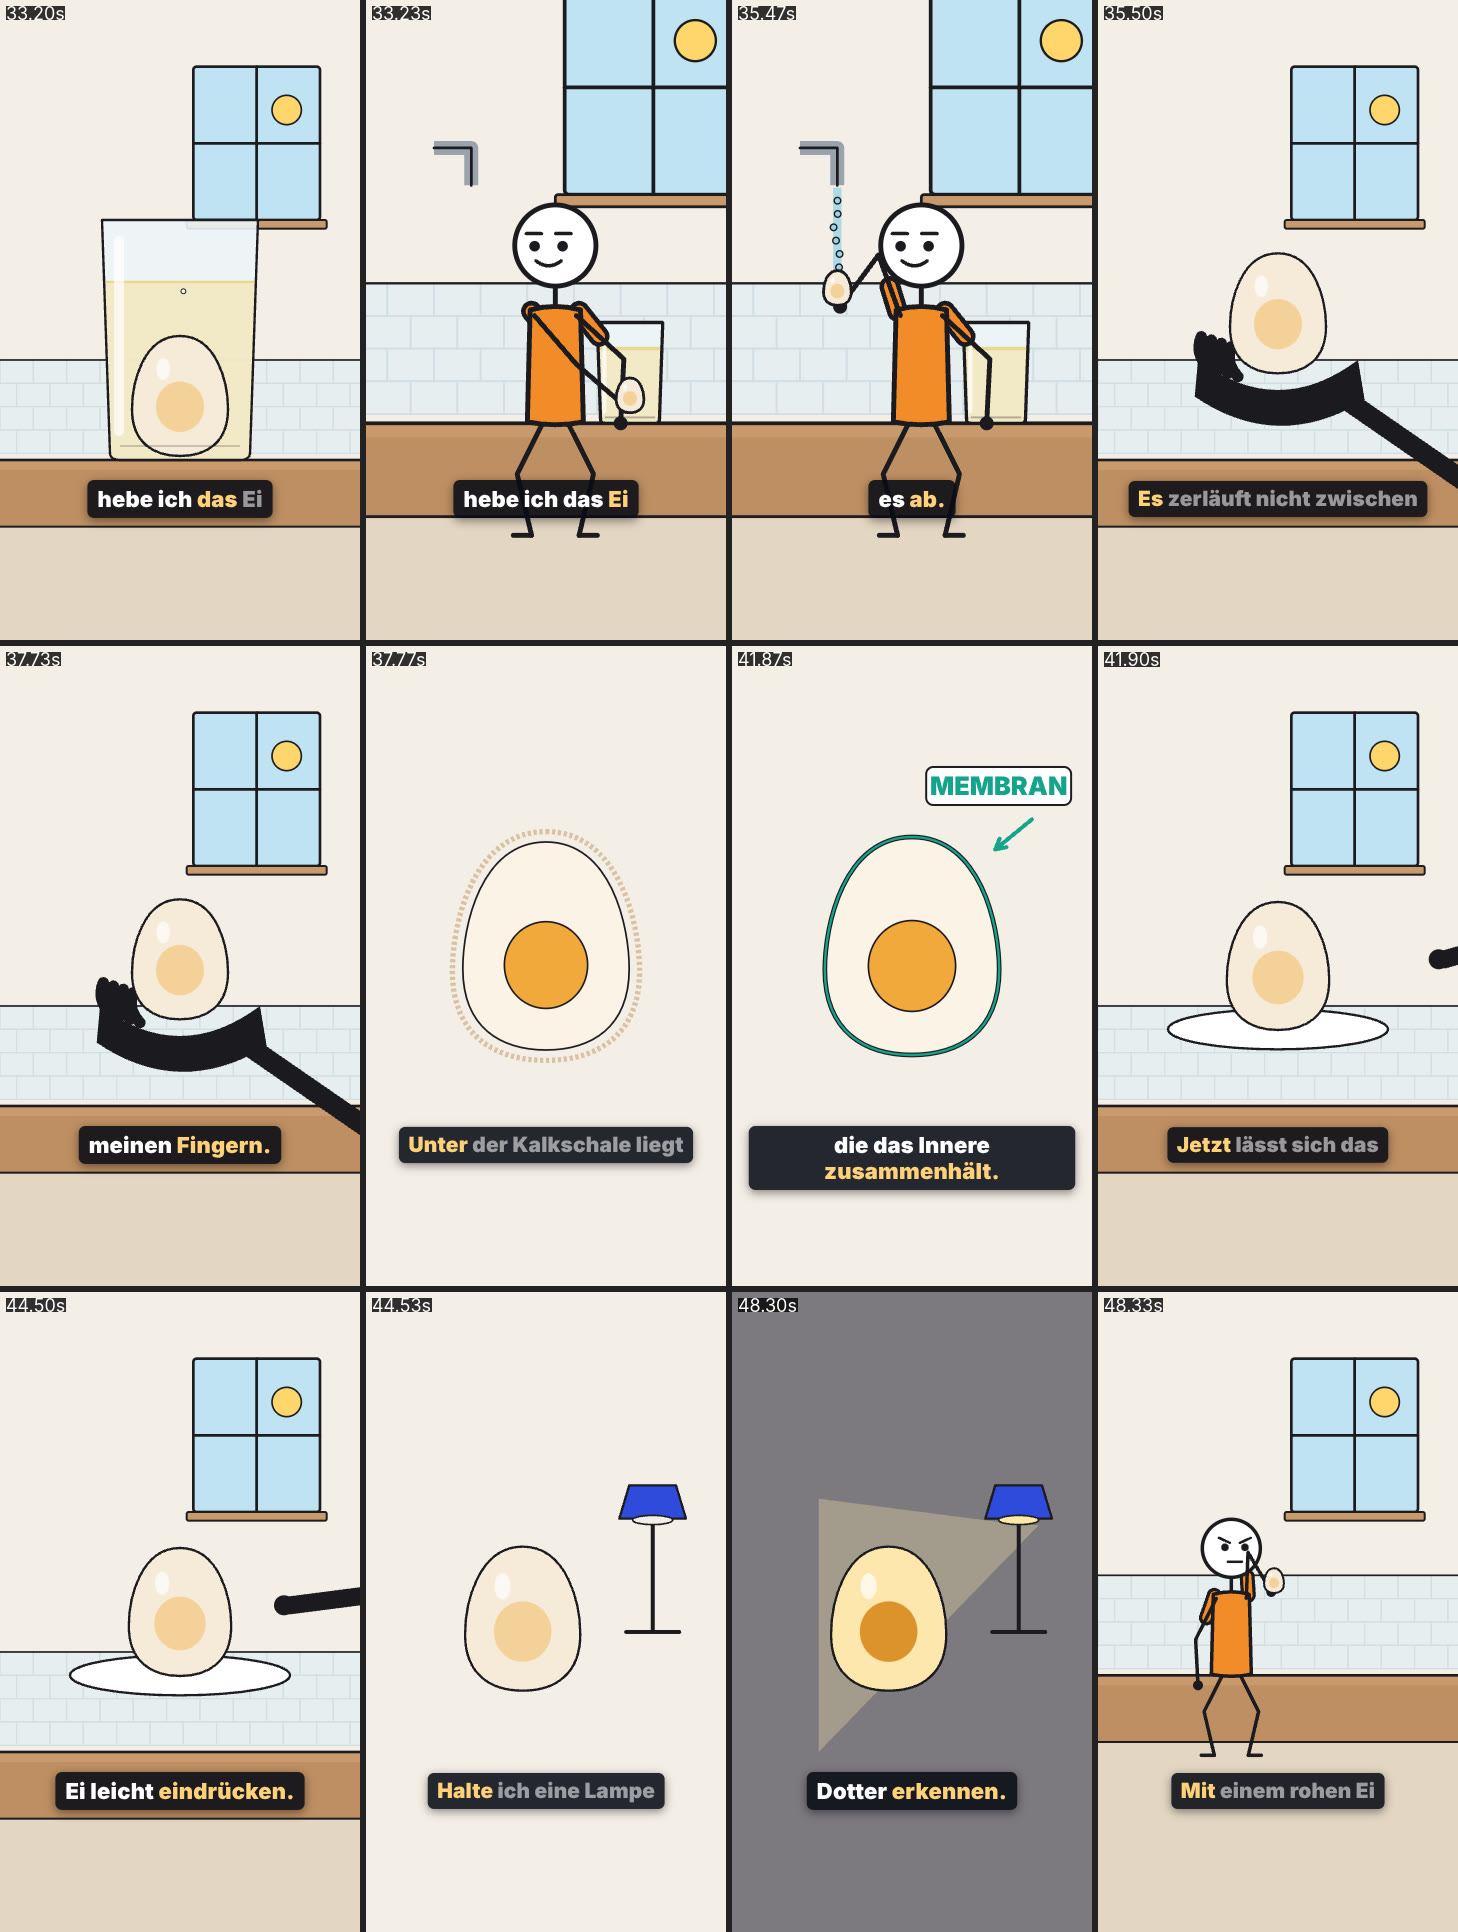
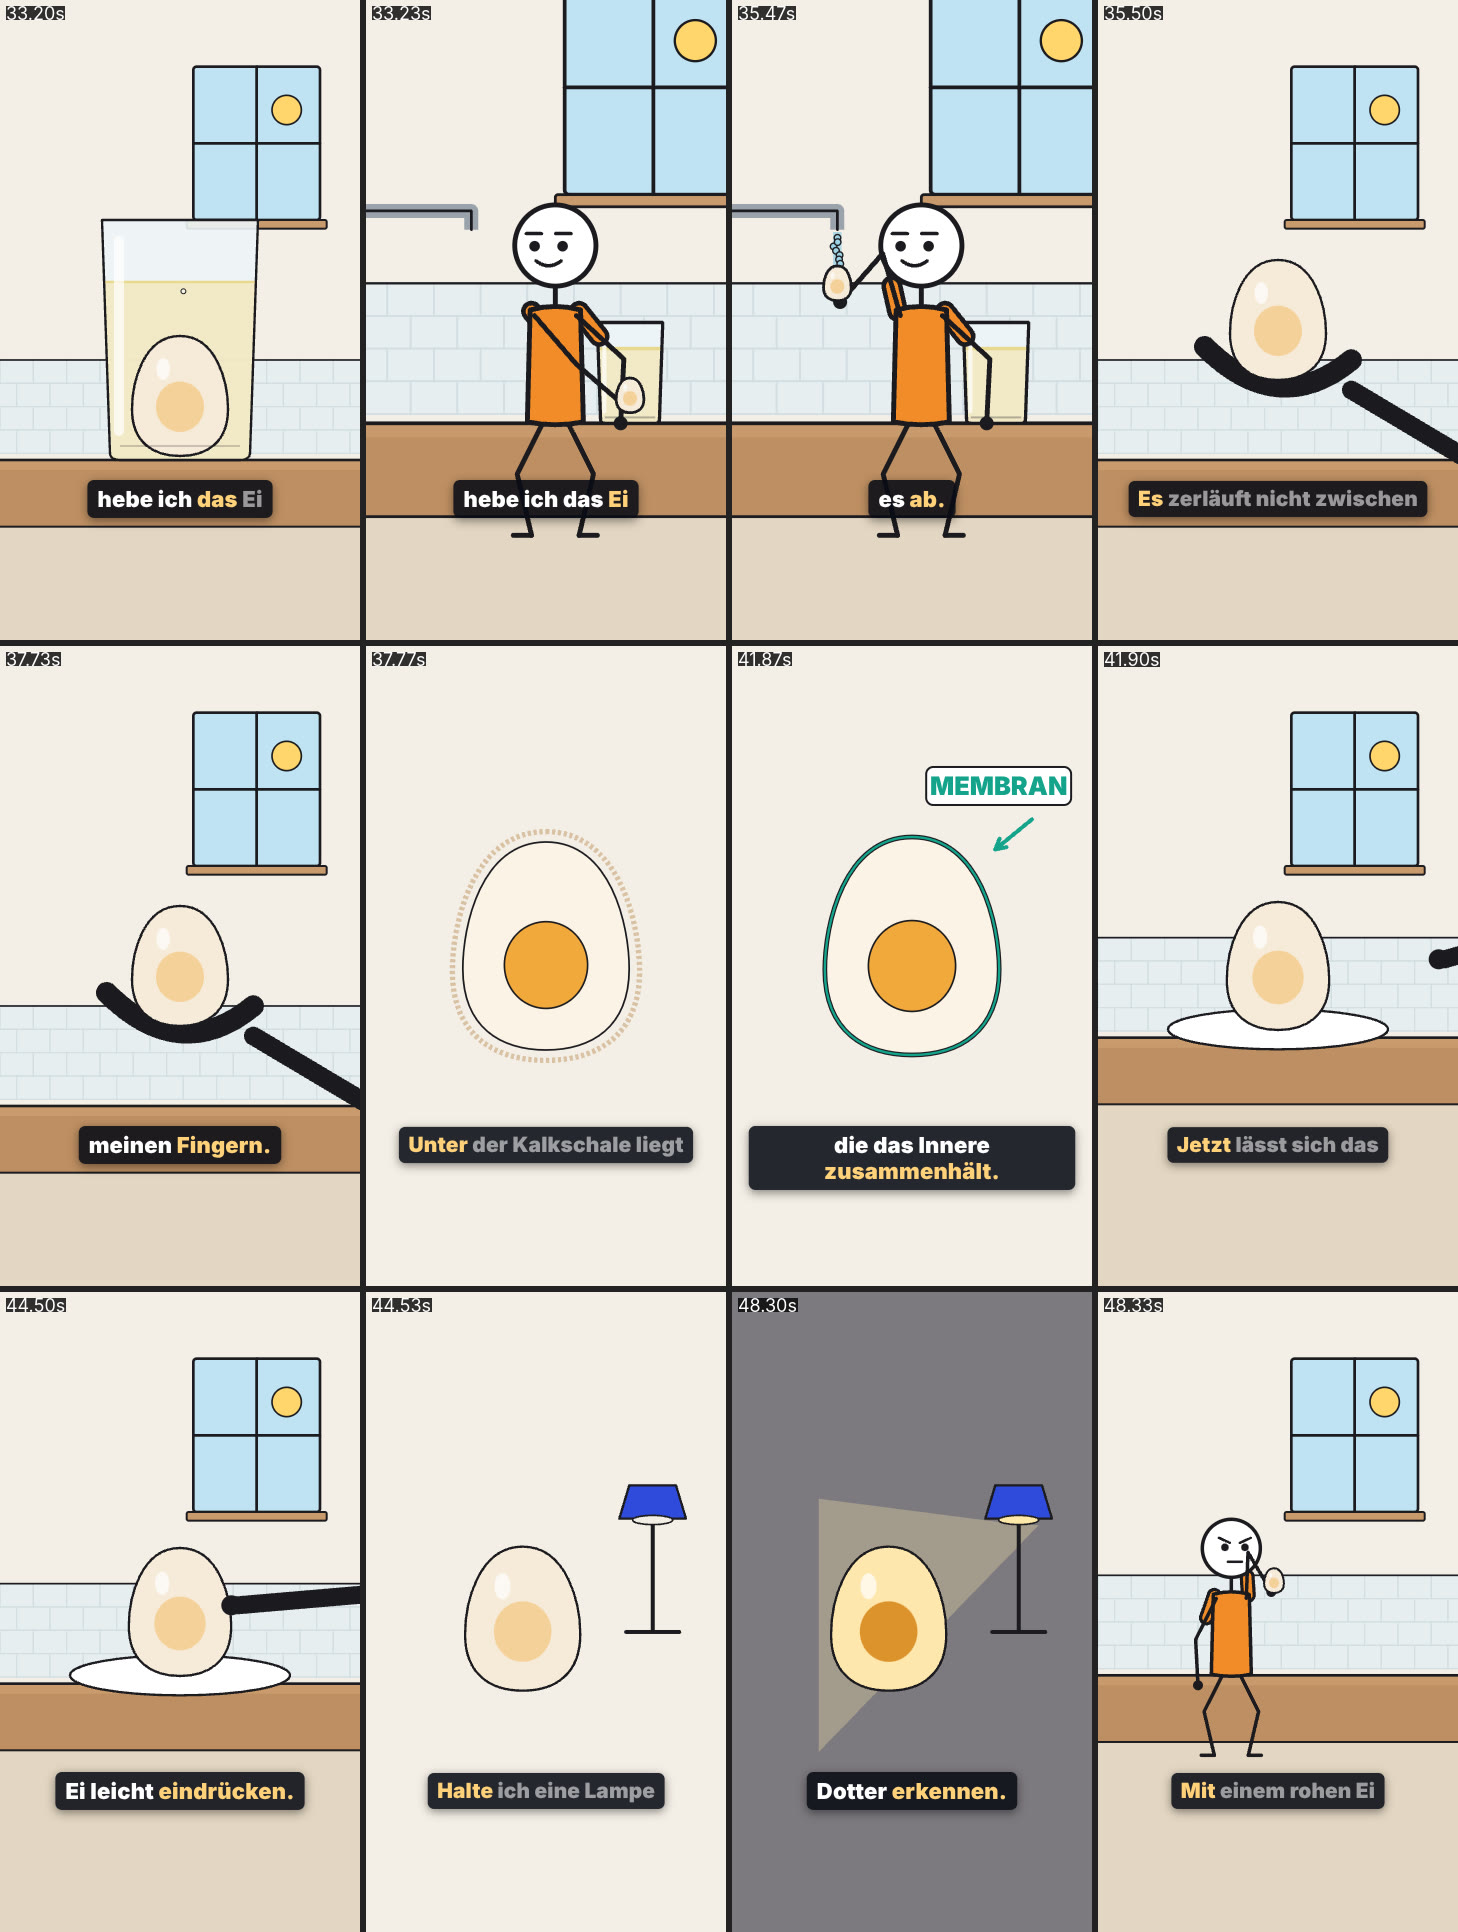
[v68] scene design WIP: round 2 fixes (Claude Code nightly)
Claude-Session: https://claude.ai/code/session_01BnQDwqPkW2v2Hyd5tMGfU9

diff --git a/src/videos/v68/shots/014.js b/src/videos/v68/shots/014.js
@@ -3,12 +3,12 @@ import { K, OL, f1, stick, cam, prog, eio, lerp, hash } from './lib.js';
 import { kitchen, glass, egg, C, TY, FY, FS } from './sets.js';
 export default function renderShot(t) {
   const lift = eio(prog(t, 33.3, 33.95)), mv = eio(prog(t, 34.0, 34.5));
-  const ex = lerp(720, 380, mv), ey = lerp(TY - 60, 840, lift) + mv * 10;
-  const tap = `<rect x="-60" y="660" width="90" height="70" fill="#9AA3AB" ${OL(6)}/><path d="M 30 695 H 380 V 735" fill="none" stroke="#9AA3AB" stroke-width="30" stroke-linejoin="round"/><path d="M 30 695 H 380 V 735" fill="none" ${OL(6)}/>`;
+  const ex = lerp(720, 880, mv), ey = lerp(TY - 60, 840, lift) + mv * 10;
+  const tap = `<rect x="1050" y="660" width="90" height="70" fill="#9AA3AB" ${OL(6)}/><path d="M 1050 695 H 880 V 735" fill="none" stroke="#9AA3AB" stroke-width="30" stroke-linejoin="round"/><path d="M 1050 695 H 880 V 735" fill="none" ${OL(6)}/>`;
   let water = '';
-  if (t > 34.55) for (let i = 0; i < 7; i++) { const ph = (t * 3 + i / 7) % 1; water += `<circle cx="${f1(380 + (hash(i) - .5) * 16)}" cy="${f1(745 + ph * (ey - 785))}" r="7" fill="${C.water}" ${OL(3)}/>`; }
-  const stream = t > 34.55 ? `<path d="M 380 740 V ${f1(ey - 36)}" stroke="${C.water}" stroke-width="18" opacity=".8"/>` : '';
+  if (t > 34.55) for (let i = 0; i < 7; i++) { const ph = (t * 3 + i / 7) % 1; water += `<circle cx="${f1(880 + (hash(i) - .5) * 16)}" cy="${f1(745 + ph * (ey - 785))}" r="7" fill="${C.water}" ${OL(3)}/>`; }
+  const stream = t > 34.55 ? `<path d="M 880 740 V ${f1(ey - 36)}" stroke="${C.water}" stroke-width="18" opacity=".8"/>` : '';
   const e = egg(ex, ey, .62, { id: 'e14', shell: 0 });
-  const fig = stick(560, FY, FS, { hL: [ex + 6, ey + 40], hR: [700, 1150], look: -.8, lookY: .3, brow: 'calm', mouth: 'smile', over: e });
+  const fig = stick(540, FY, FS, { hR: [ex - 6, ey + 40], hL: [440, 1180], look: .8, lookY: .3, brow: 'calm', mouth: 'smile', over: e });
   return cam(`${kitchen()}${tap}${glass(720, TY, .9, { id: 'g14', level: .78 })}${stream}${water}${fig}`, 1.4, 540, 900, 0, 20);
 }

diff --git a/src/videos/v68/shots/019.js b/src/videos/v68/shots/019.js
@@ -4,7 +4,7 @@ import { kitchen, egg, TY, FY, FS } from './sets.js';
 export default function renderShot(t) {
   const shake = Math.sin(t * 11) * 4 * eio(prog(t, 49.6, 50.0)) * (1 - eio(prog(t, 51.2, 51.6)));
   const a = eio(prog(t, 48.9, 49.6));
-  const arc = a > 0 ? `<path d="M 560 860 Q 740 ${f1(560)} 920 ${f1(lerp(860, 1100, 1))}" fill="none" stroke="${K.blue}" stroke-width="12" stroke-dasharray="26 18" stroke-dashoffset="${f1(-t * 60)}" opacity="${f1(a)}"/>` + egg(lerp(560, 920, .5), 700, .5, { id: 'e19g', shell: 0 }).replace('<g ', `<g opacity="${f1(a * .55)}" `) : '';
-  const fig = stick(400, FY, FS, { hR: [520, 900], hL: [300, 1180], lean: shake * .4, look: .6 + shake * .05, brow: 'knit', mouth: 'flat', over: egg(528, 866, .62, { id: 'e19', shell: 0 }) });
+  const arc = a > 0 ? `<path d="M 580 980 Q 740 ${f1(600)} 920 ${f1(lerp(860, 1100, 1))}" fill="none" stroke="${K.blue}" stroke-width="12" stroke-dasharray="26 18" stroke-dashoffset="${f1(-t * 60)}" opacity="${f1(a)}"/>` + egg(lerp(560, 920, .5), 700, .5, { id: 'e19g', shell: 0 }).replace('<g ', `<g opacity="${f1(a * .55)}" `) : '';
+  const fig = stick(400, FY, FS, { hR: [560, 1030], hL: [300, 1180], bendR: 1, lean: shake * .4, look: .6 + shake * .05, brow: 'calm', mouth: 'flat', over: egg(568, 996, .62, { id: 'e19', shell: 0 }) });
   return `${kitchen()}${arc}${cross(740, 760, 150, prog(t, 49.9, 50.6))}${fig}`;
 }

diff --git a/src/videos/v68/shots/micro.js b/src/videos/v68/shots/micro.js
@@ -14,4 +14,4 @@ export function shell(th, o = {}) { // th = remaining thickness factor 0..1
   <rect x="-60" y="${f1(SY + H)}" width="1200" height="2000" fill="#F6EBD9"/><path d="M -60 ${f1(SY + H)} H 1140" stroke="#C9B48F" stroke-width="10" stroke-dasharray="20 12"/>
   <g clip-path="url(#shClip)"><defs><clipPath id="shClip"><rect x="-60" y="${SY - 10}" width="1200" height="${f1(H + 10)}"/></clipPath></defs>${blocks}</g>`;
 }
-export const acid = (x, y, a = 1) => `<g opacity="${cl(a).toFixed(2)}"><circle cx="${f1(x)}" cy="${f1(y)}" r="16" fill="${K.red}" ${OL(4)}/><path d="M ${f1(x - 7)} ${f1(y)} H ${f1(x + 7)} M ${f1(x)} ${f1(y - 7)} V ${f1(y + 7)}" stroke="#FFFFFF" stroke-width="4"/></g>`;
+export const acid = (x, y, a = 1) => `<g opacity="${cl(a).toFixed(2)}"><circle cx="${f1(x)}" cy="${f1(y)}" r="26" fill="${K.red}" ${OL(5)}/><path d="M ${f1(x - 11)} ${f1(y)} H ${f1(x + 11)} M ${f1(x)} ${f1(y - 11)} V ${f1(y + 11)}" stroke="#FFFFFF" stroke-width="6"/></g>`;

diff --git a/src/videos/v68/shots/008.js b/src/videos/v68/shots/008.js
@@ -5,6 +5,6 @@ export default function renderShot(t) {
   const reach = eio(prog(t, 15.2, 16.2)) * (1 - eio(prog(t, 16.5, 17.1)));
   const hx = lerp(560, 700, reach), hy = lerp(1080, 880, reach);
   const inner = egg(0, -66, .69, { id: 'e8' }) + shellBubbles(0, -66, 33, 41, 1, t, 18, 1, 3) + rising(0, -66, 33, 41, -170, t, 14, { n: 8, speed: 60, r: 3 });
-  const fig = stick(460, FY, FS, { hR: [hx, hy], hL: [360, 1180], lean: 4 * reach, look: .9, lookY: .5, brow: t > 16.5 ? 'knit' : 'up', mouth: t > 16.5 ? 'flat' : 'o' });
+  const fig = stick(460, FY, FS, { hR: [hx, hy], hL: [360, 1180], lean: 4 * reach, look: .9, lookY: .5, brow: t > 16.5 ? 'calm' : 'up', mouth: t > 16.5 ? 'smile' : 'o' });
   return cam(`${kitchen()}${vinegar(930, TY, .7)}${glass(720, TY, .9, { id: 'g8', level: .78, inner })}${fig}`, 1.5, 640, 1000, -40, 60);
 }

diff --git a/src/videos/v68/shots/009.js b/src/videos/v68/shots/009.js
@@ -5,7 +5,7 @@ export default function renderShot(t) {
   let a = '';
   for (let i = 0; i < 16; i++) {
     const x = 60 + (i % 8) * 130 + hash(i) * 40, y0 = 200 + hash(i * 3.3) * 500, u = eio(prog(t, 18.3 + (i % 5) * .15, 19.4 + (i % 5) * .15));
-    a += acid(x, lerp(y0, SY - 18, u), prog(t, 18.0 + i * .02, 18.4 + i * .02));
+    a += acid(x, lerp(y0, SY - 28, u), prog(t, 18.0 + i * .02, 18.4 + i * .02));
   }
   const eat = 1.2 * eio(prog(t, 19.3, 21.5));
   return `${shell(1, { eat })}${a}${card(540, 330, 'KALK', 96, prog(t, 19.9, 20.2), { col: K.ink })}`;
